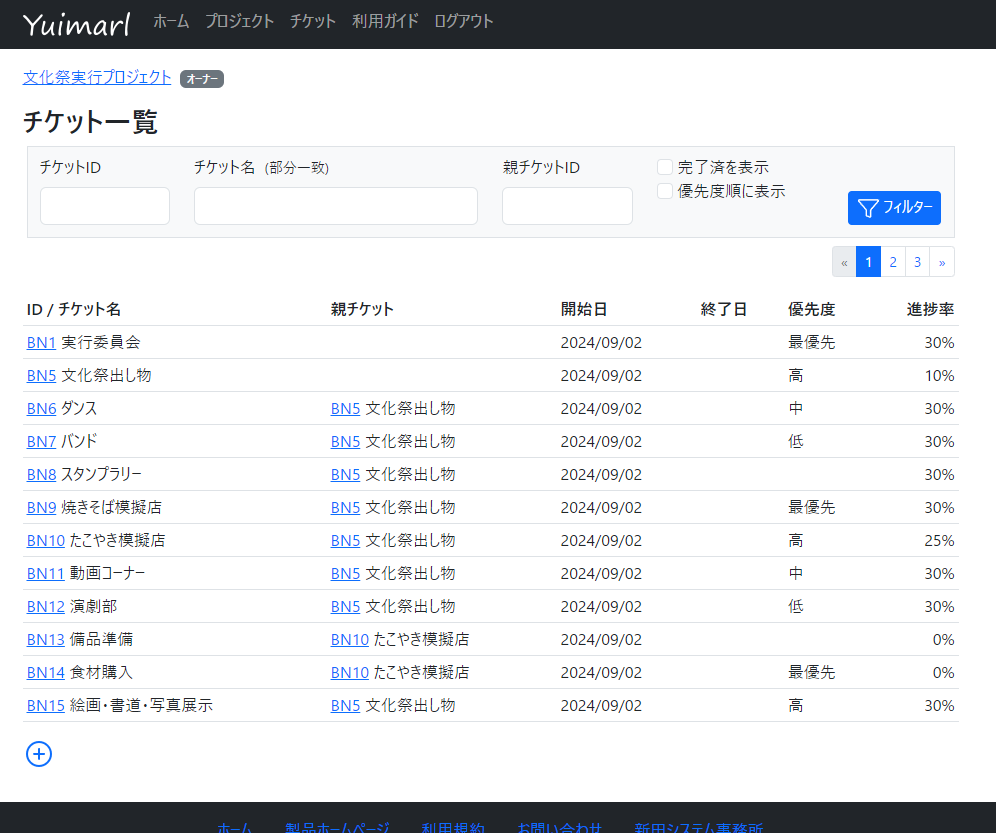
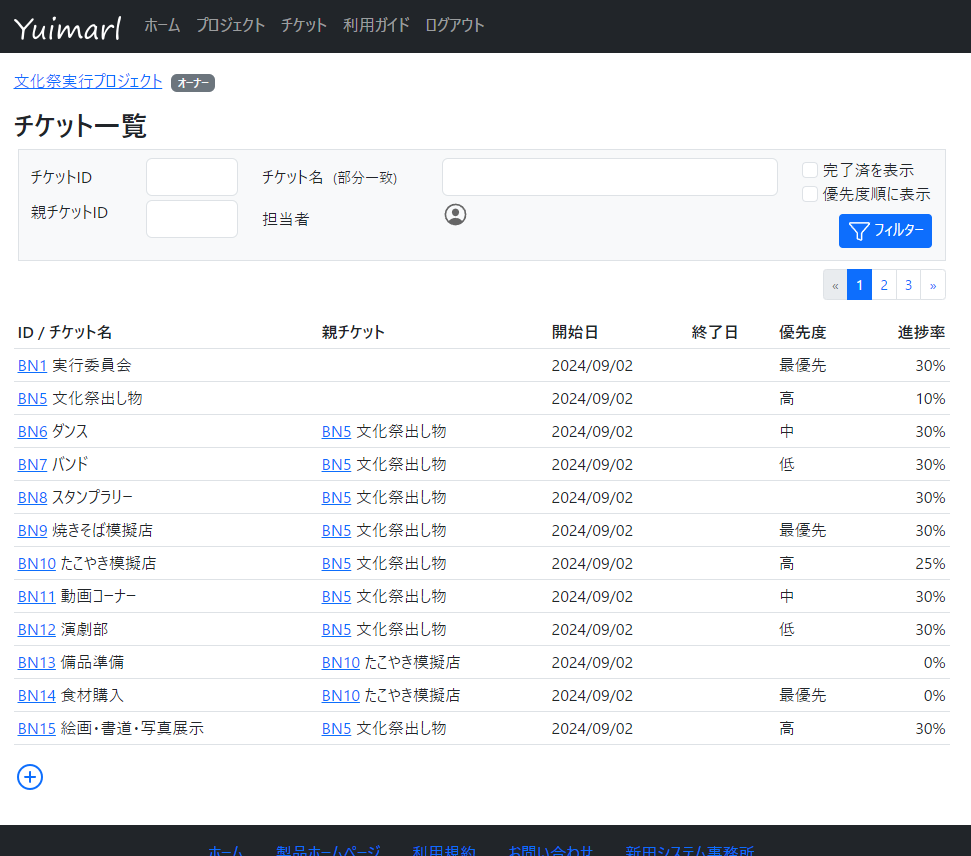
update

diff --git a/howtouse.html b/howtouse.html
@@ -268,8 +268,9 @@
                     <p class="pt-2">以下の条件を入力して「フィルター」ボタンをクリックすると、条件に該当するチケットが絞り込まれて表示されます。</p>
                     <ul>
                       <li><b>チケットID</b><br>入力されたチケットID のチケットを表示します。</li>
-                      <li><b>チケット名（部分一致）</b><br>チケット名に、入力された文字列が含まれるチケットを表示します。</li>
                       <li><b>親チケットID</b><br>入力されたチケットID の子チケットを表示します。</li>
+                      <li><b>チケット名（部分一致）</b><br>チケット名に、入力された文字列が含まれるチケットを表示します。</li>
+                      <li><b>担当者</b><br><img class="icon3" src="images/ionicons/person-circle-outline.svg">&nbsp;アイコンをクリックすると、プロジェクトメンバーの一覧画面が表示されます。その中から1人を選択すると、その人が担当者のチケットを表示します。</li>
                       <li><b>完了済を表示</b><br>チェックを付けると、完了済みのチケットも表示されます。（チェックを付けていないと、完了済みのチケットは表示されません）</li>
                       <li><b>優先度順に表示</b><br>チェックを付けると、優先度順に表示されます。</li>
                     </ul>
@@ -366,7 +367,7 @@
                     <li>他のユーザーによって、自分が担当になっているチケットにコメントが追加された時。</li>
                     <li>他のユーザーによって、自分がメンバーになっているプロジェクトが削除された時。</li>
                     <li>自分がオーナーまたは管理者のプロジェクトから、メンバーが離脱した時。</li>
-                    <li>運用担当者からのお知らせが通知が発行された時。</li>
+                    <li>運用担当者からのお知らせ通知が発行された時。</li>
                   </ol>
                   <p>お知らせを削除するには、<img class="icon3" src="images/ionicons/close-outline.svg">&nbsp;アイコンをクリックします。</p>
                 </section>

diff --git a/deploy.html b/deploy.html
@@ -99,7 +99,7 @@
                       <p>「サービスを作成」をクリックします。<a href="images/screen29.png"><img class="border border-info border-1 img-fluid" src="images/screen29.png"></a></p>
                       <p>「課金を有効にして Cloud Run の使用を継続します」画面が表示された場合は、「[お支払い]に移動」をクリックして支払いの設定を行います。<a href="images/screen30.png"><img class="border border-info border-1 img-fluid" src="images/screen30.png"></a></p>
                       <p>「サービスを作成」で次の画像のように設定します。<br>（&nbsp;「コンテナイメージのURL」は、<a href="https://hub.docker.com/repository/docker/masahironitta/yuimarl/general" target="_blank">Docker Hub</a>&nbsp; に登録されている最新のイメージを設定します）<a href="images/screen31.png"><img class="border border-info border-1 img-fluid" src="images/screen31.png"></a>
-                        <div class="alert alert-primary" role="alert">現在の最新イメージは、<br><b>masahironitta/yuimarl:1.0.11</b><br>です。<br><a href="https://hub.docker.com/repository/docker/masahironitta/yuimarl/general" target="_blank">Yuimarl Docker Hub レジストリ</a></div>
+                        <div class="alert alert-primary" role="alert">現在の最新イメージは、<br><b>masahironitta/yuimarl:1.0.12</b><br>です。<br><a href="https://hub.docker.com/repository/docker/masahironitta/yuimarl/general" target="_blank">Yuimarl Docker Hub レジストリ</a></div>
                       </p>
                       <p>「コンテナ、ボリューム、ネットワーキング、セキュリティ」の「コンテナ」の「設定」にある「ヘルスチェックを追加します」をクリックします。<a href="images/screen48.png"><img class="border border-info border-1 img-fluid" src="images/screen48.png"></a></p>
                       <p>「ライブネスチェック」と「HTTP」を選択し、パスに「/health」と入力し、「追加」をクリックします。<a href="images/screen43.png"><img class="border border-info border-1 img-fluid" src="images/screen43.png"></a></p>
